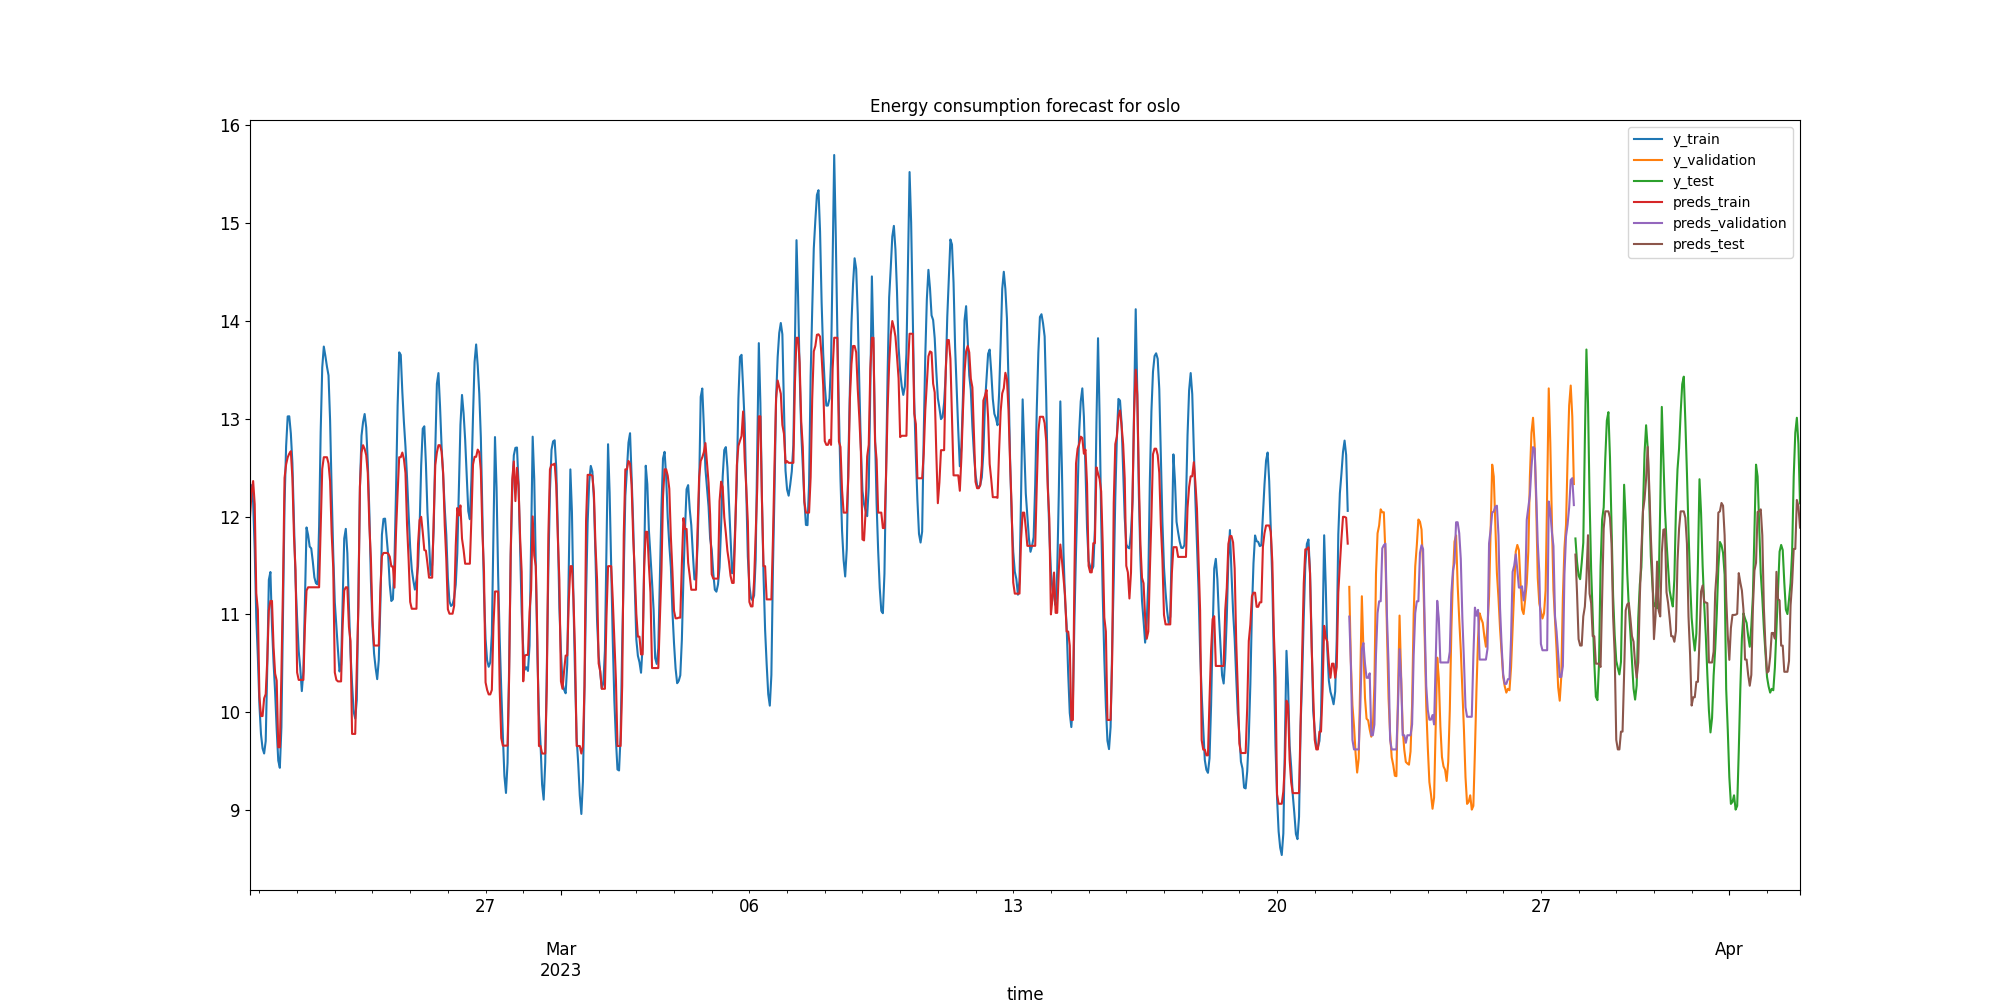
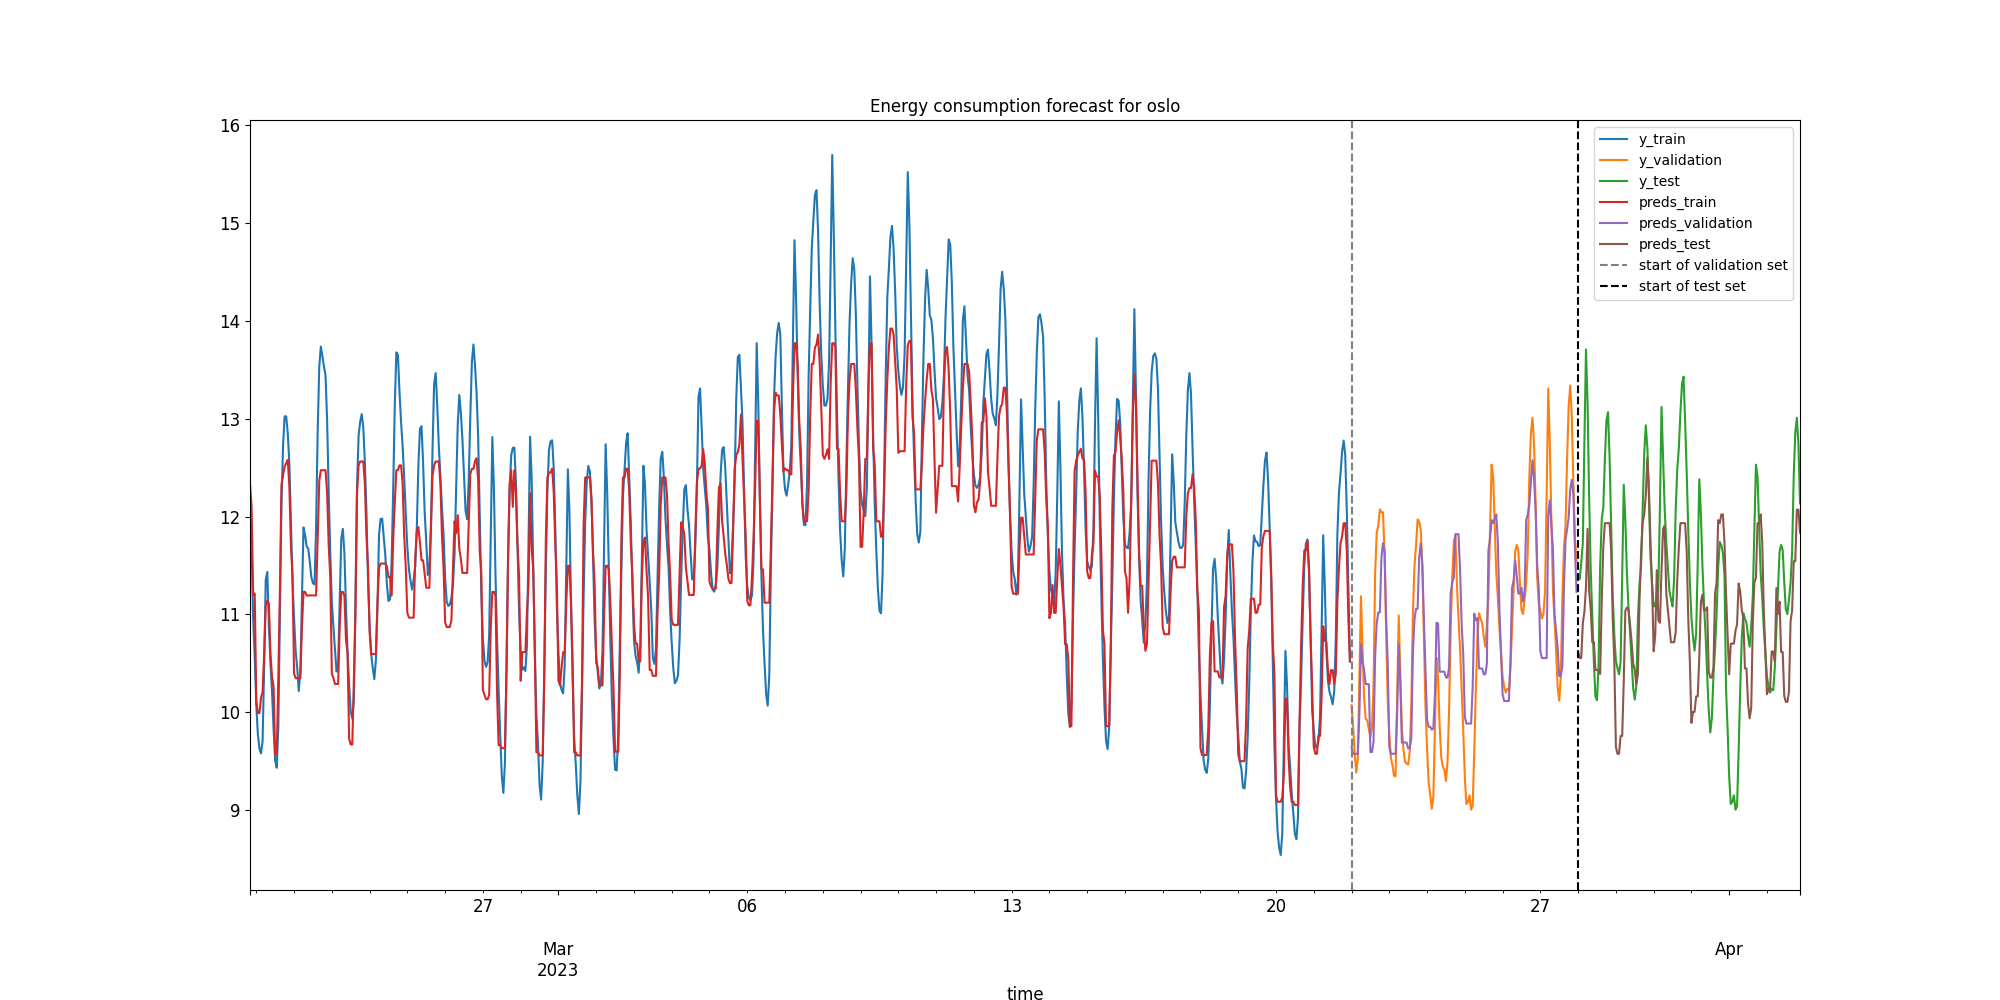
made val and test sets start at midnight

Changed region(s): [[0.124, 0.186, 0.899, 0.837], [0.806, 0.124, 0.899, 0.31]]

diff --git a/scripts/xgboost_forecast.py b/scripts/xgboost_forecast.py
@@ -34,7 +34,7 @@ def train_and_plot_with_most_recent_data(
         lr,
         train_size,
         validation_size=6*24,
-        test_size=6*24):
+        test_size=6*24-2): #Subtract two hours to ensure test and validation sets start at midnight
 
     df_city = featurize(df_city)
 
@@ -78,9 +78,11 @@ def train_and_plot_with_most_recent_data(
     train_preds.plot(ax=ax)
     validation_preds.plot(ax=ax)
     test_preds.plot(ax=ax)
+    ax.axvline(y_validation.index[0], color="grey", ls="--")
+    ax.axvline(y_test.index[0], color="black", ls="--")
 
     ax.legend(["y_train", "y_validation", "y_test", "preds_train",
-               "preds_validation", "preds_test"])
+               "preds_validation", "preds_test", "start of validation set", "start of test set"])
     plt.title(f"Energy consumption forecast for {city}")
     plt.savefig(out_dir / f"{city}_forecast.png")
     plt.clf()
